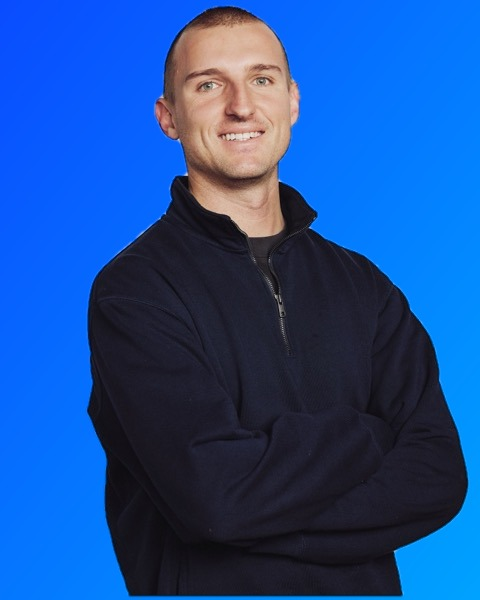
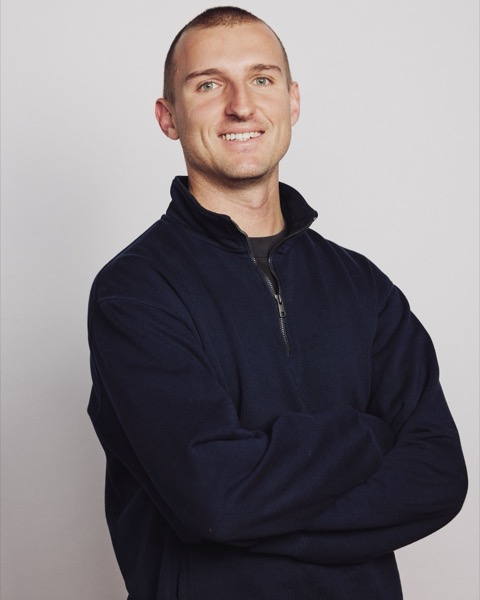
Use the original portrait in place of the rough cut-out
The uncut studio photo replaces the cut-out on the home page, About and
the Insights byline. The panel behind it is now fog, not the blue
gradient, since the photo fills it.

Claude-Session: https://claude.ai/code/session_01FWbFv8yy3hTuy9v9FhNwSW

diff --git a/src/styles/blog.css b/src/styles/blog.css
@@ -45,7 +45,7 @@
 .post-head h1 { margin: 0; font-size: clamp(38px, 5.2vw, 64px); line-height: 1.04; letter-spacing: -0.035em; font-weight: 600; }
 .post-standfirst { margin: 0; font-size: clamp(19px, 2vw, 23px); line-height: 1.45; letter-spacing: -0.012em; color: var(--text-secondary); max-width: 36em; }
 .post-byline { display: flex; align-items: center; gap: 14px; padding-top: 4px; }
-.post-byline img { width: 48px; height: 48px; border-radius: 50%; object-fit: cover; object-position: 50% 0; background: var(--gradient-signal); }
+.post-byline img { width: 48px; height: 48px; border-radius: 50%; object-fit: cover; object-position: 50% 0; background: var(--fog); }
 .post-byline .who { display: grid; gap: 2px; }
 .post-byline .who a { font: 600 15px/20px var(--font-sans); color: var(--ink); text-decoration: none; }
 .post-byline .who a:hover { text-decoration: underline; }
@@ -74,7 +74,7 @@
 .post-cta .post-action { margin: 0; }
 .post-cta .post-action a, .post-body .post-action a, .post-cta .post-action a:hover { color: var(--paper); text-decoration: none; }
 .post-author { display: grid; grid-template-columns: 64px minmax(0, 1fr); gap: 18px; align-items: start; margin: 48px 0 0; padding-top: 32px; border-top: 1px solid var(--border); font-size: 16px; line-height: 1.55; }
-.post-author img { width: 64px; height: 64px; border-radius: 50%; object-fit: cover; object-position: 50% 0; background: var(--gradient-signal); }
+.post-author img { width: 64px; height: 64px; border-radius: 50%; object-fit: cover; object-position: 50% 0; background: var(--fog); }
 .post-author p { margin: 4px 0 8px; color: var(--text-secondary); }
 .post-author strong { font-size: 17px; }
 .post-share { display: flex; flex-wrap: wrap; align-items: center; gap: 8px 12px; margin: 32px 0 0; font-size: 14px; color: var(--text-secondary); }
